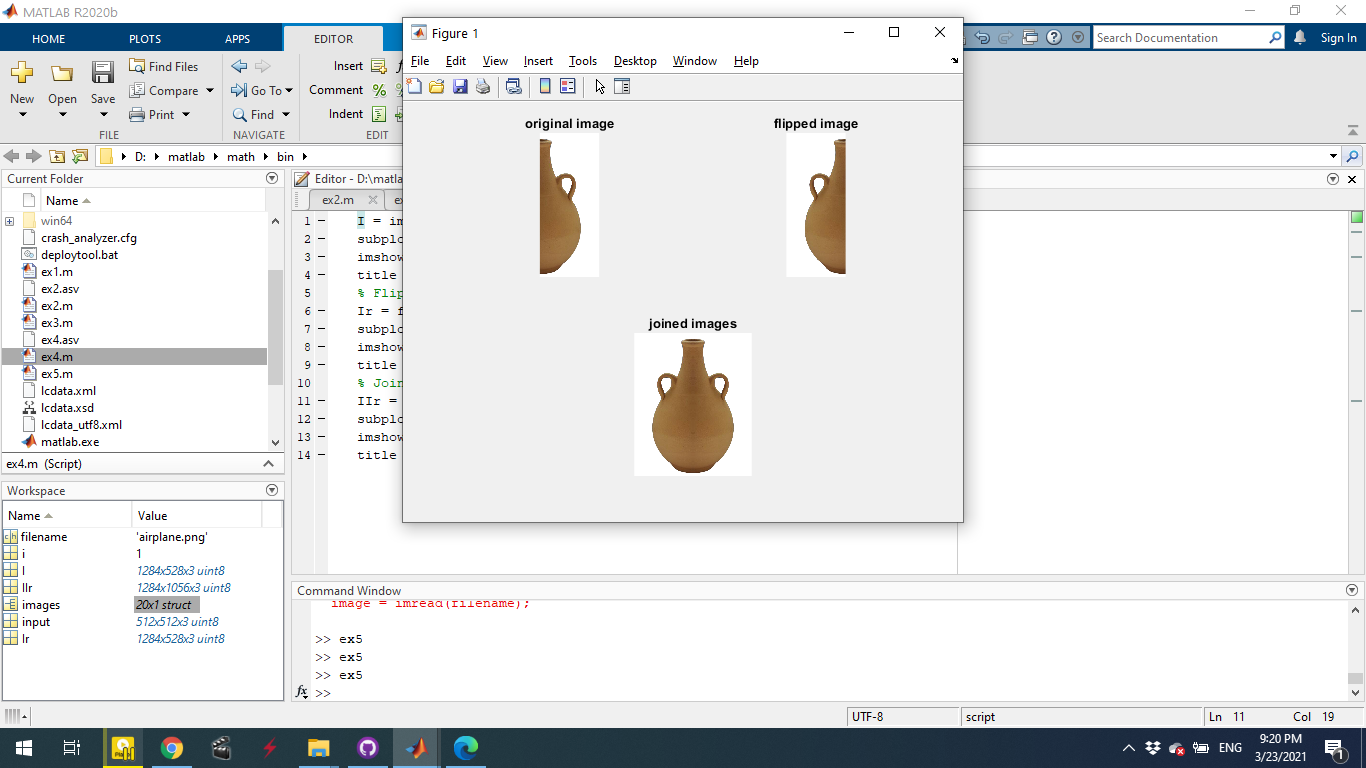
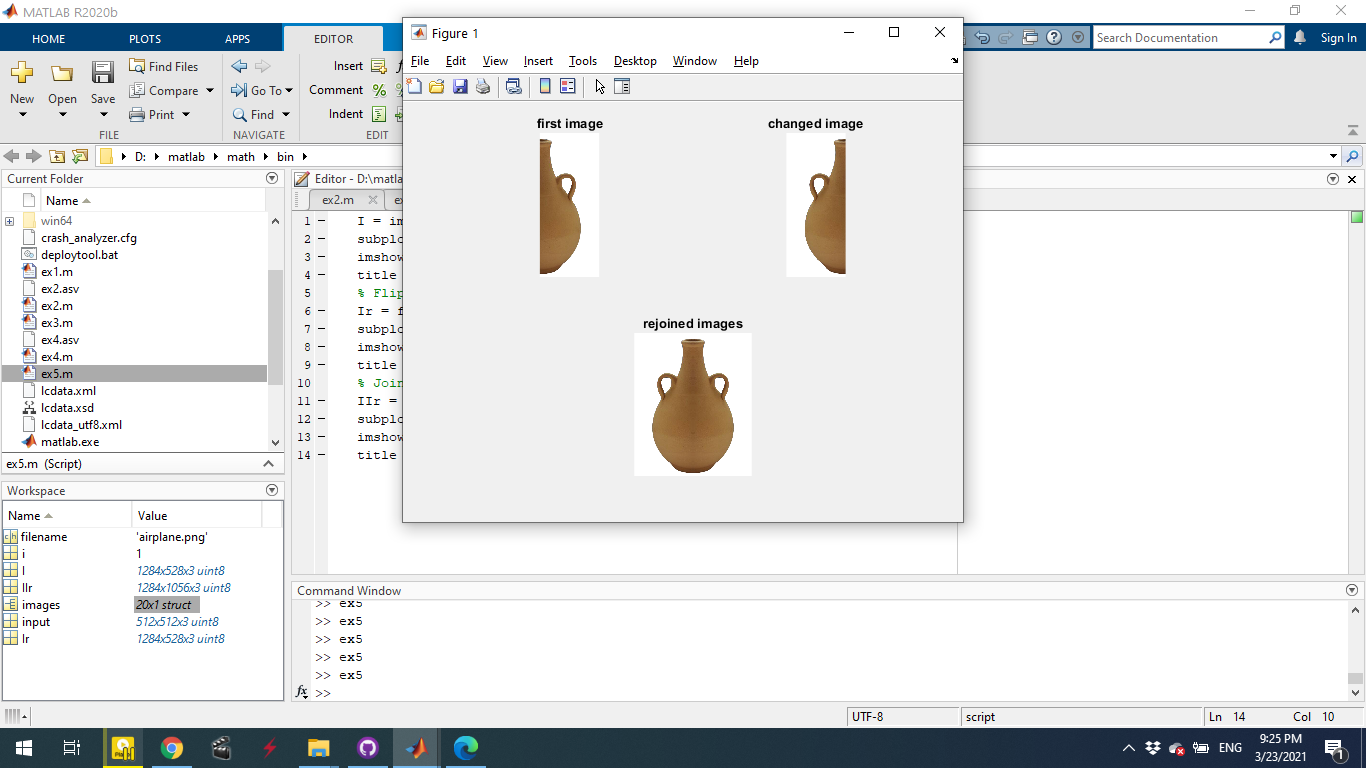
ex5

diff --git a/excersiecs/mohammadhoseinazad/5/ex5.m b/excersiecs/mohammadhoseinazad/5/ex5.m
@@ -1,14 +1,14 @@
 I = imread('C:\Users\nmzis\OneDrive\Desktop\4197843.jpg'); 
 subplot(2,2,1) 
 imshow(I)
-title 'original image' 
+title 'first image' 
 % Flip left/right: 
 Ir = flip(I,2); 
 subplot(2,2,2) 
 imshow(Ir)
-title 'flipped image'
+title 'changed image'
 % Join the original and flipped images: 
 IIr = horzcat(Ir,I); 
 subplot(2,2,3:4) 
 imshow(IIr)
-title 'joined images'
+title 'rejoined images'

diff --git a/excersiecs/mohammadhoseinazad/5/README.md b/excersiecs/mohammadhoseinazad/5/README.md
@@ -5,5 +5,5 @@
 
 open the code ex5.m with mathlab press **run** button :rocket: 
 
-
+contributed from (https://www.mathworks.com/matlabcentral/answers/329639-flip-image-from-one-side-to-another)
 ![img](https://github.com/semnan-university-ai/image-processing-class/blob/main/excersiecs/mohammadhoseinazad/5/ex5.png)
